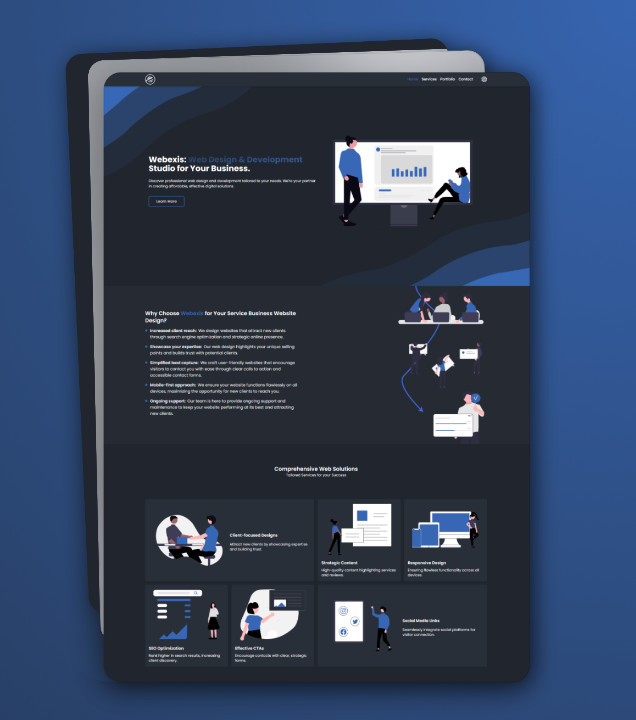
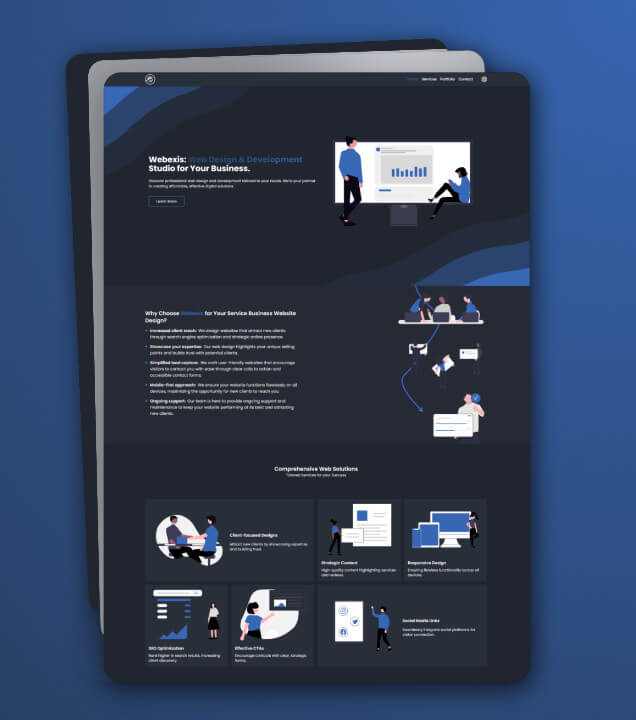
img optimization

diff --git a/components/CaseStudy.jsx b/components/CaseStudy.jsx
@@ -4,6 +4,7 @@ import Image from 'next/image';
 import { useEffect, useState } from 'react';
 import { Review, CaseStudyContent, CaseStudyText, NotFound, Button } from '.';
 import { caseStudiesData } from '@/data';
+import { motion } from 'framer-motion';
 
 const CaseStudy = ({ slug }) => {
     const [currentStudy, setCurrentStudy] = useState([]);
@@ -19,7 +20,7 @@ const CaseStudy = ({ slug }) => {
             ) : (
                 <main className='py-24 bg-lightBg dark:bg-darkBg text-secondary dark:text-primary'>
                     <div className='container mx-auto px-4 md:px-0'>
-                        <div className='w-full h-[250px] md:h-[350px] mt-[-96px]  rounded-lg overflow-hidden relative'>
+                        <div className='w-full h-[250px] md:h-[350px] mt-[-96px] rounded-lg overflow-hidden relative'>
                             <Image
                                 src='/casestudy-bg.jpg'
                                 alt='/blurred image of code'
@@ -28,7 +29,7 @@ const CaseStudy = ({ slug }) => {
                                 width={600}
                             />
                             <div className='absolute top-0 left-0 w-full h-full text-center z-10 flex justify-center items-center backdrop-blur-sm'>
-                                <h1 className='pt-[55px] md:pt-[96px] font-bold text-xl md:text-[30px] text-primary '>
+                                <h1 className=' font-bold text-xl md:text-[30px] text-primary '>
                                     Case Study: {currentStudy.title}
                                 </h1>
                             </div>
@@ -60,7 +61,7 @@ const CaseStudy = ({ slug }) => {
                                 <CaseStudyText list={currentStudy.results.features} />
                             </CaseStudyContent>
                             <div className='flex justify-between flex-col lg:flex-row items-center mt-20'>
-                                <div className='flex-1'>
+                                <div className='flex-1 w-[360px] ml-[-20px] overflow-hidden md:ml-0 md:w-auto'>
                                     <Review
                                         title={currentStudy.clientTestimonial.title}
                                         desc={currentStudy.clientTestimonial.description}
@@ -85,13 +86,31 @@ const CaseStudy = ({ slug }) => {
                                         <p>{currentStudy.aboutWebexis.description}</p>
                                     </div>
                                     <div className='pt-8 pb-3 flex justify-start items-center gap-4'>
-                                        <p className='text-xl font-semibold'>View Project: </p>
+                                        <p className='text-[13px] md:text-lg font-medium md:font-semibold'>
+                                            View Project:{' '}
+                                        </p>
                                         {currentStudy.demo.map(
                                             (link) =>
                                                 link.url && (
-                                                    <Button link={link.url} key={link.url}>
-                                                        {link.title}
-                                                    </Button>
+                                                    <motion.a
+                                                        key={link.url}
+                                                        href={link.url}
+                                                        className={` py-[6px] px-[16px] text-[12px] md:text-base dark:py-[4px] dark:px-[14px] dark:border-2 dark:border-accent rounded-md relative radial-gradient overflow-hidden `}
+                                                        initial={{ '--x': '-100%' }}
+                                                        whileHover={{ '--x': '100%' }}
+                                                        transition={{
+                                                            duration: 0.3,
+                                                            type: 'spring',
+                                                            stiffness: '20',
+                                                            damping: 10,
+                                                            mass: 2,
+                                                        }}
+                                                    >
+                                                        <span className='tracking-wide text-primary h-full w-full block relative linear-gradient z-10'>
+                                                            {link.title}
+                                                        </span>
+                                                        <span className='block absolute inset-0 p-px linear-overlay' />
+                                                    </motion.a>
                                                 )
                                         )}
                                     </div>

diff --git a/components/Footer.jsx b/components/Footer.jsx
@@ -111,7 +111,7 @@ const Footer = () => {
                                 placeholder='Your Email'
                                 value={newsletterInput}
                                 onChange={(e) => setnewsletterInput(e.target.value)}
-                                className='py-[10px] max-h-[100px] w-full px-4 md:w-[215px] lg:w-[210px] xl:w-[255px] bg-lightBg text-secondary rounded-bl rounded-tl focus-visible:outline focus-visible:outline-2 focus-visible:outline-black dark:focus-visible:outline-white focus-visible:box-border dark:border-2 dark:border-accent dark:border-r-[0px]'
+                                className='py-[10px] max-h-[100px] w-[196px] px-4 md:w-[215px] lg:w-[210px] xl:w-[255px] bg-lightBg text-secondary rounded-bl rounded-tl focus-visible:outline focus-visible:outline-2 focus-visible:outline-black dark:focus-visible:outline-white focus-visible:box-border dark:border-2 dark:border-accent dark:border-r-[0px]'
                             />
                             <motion.button
                                 className=' py-[10px] px-[34px] dark:py-2.5 dark:px-8 dark:border-2 dark:border-accent rounded-md rounded-tl-none rounded-bl-none dark:border-l-[0px] relative radial-gradient overflow-hidden'

diff --git a/components/Hero.jsx b/components/Hero.jsx
@@ -11,7 +11,7 @@ const Hero = () => {
         <section
             id='hero'
             style={{ background: 'url("/hero-bg.png")', backgroundSize: 'cover' }}
-            className='relative bg-lightBg dark:bg-darkBg text-secondary dark:text-primary py-10 md:pt-28 md:pb-24  min-h-screen before:absolute before:top-0 before:left-0 before:w-full before:h-full before:content-[""] before:dark:bg-darkBg before:z-[-1] flex items-center justify-center'
+            className='relative bg-lightBg dark:bg-darkBg text-secondary dark:text-primary py-10 md:pt-28 md:pb-24  min-h-[94vh] before:absolute before:top-0 before:left-0 before:w-full before:h-full before:content-[""] before:dark:bg-darkBg before:z-[-1] flex items-center justify-center'
         >
             <motion.div
                 initial={{ opacity: 0, y: 30 }}

diff --git a/components/Navbar.jsx b/components/Navbar.jsx
@@ -37,7 +37,7 @@ const Navbar = () => {
             initial={{ y: '-100%' }}
             animate={{ y: 0 }}
             transition={{ ease: 'easeInOut', duration: 0.4 }}
-            className=' fixed flex text-darkText min-h-16 px-4 top-[-1px] left-0 w-full bg-[#f6f6f6] dark:bg-tertiary text-secondary dark:text-primary shadow-md z-50'
+            className=' sticky flex text-darkText min-h-16 px-4 top-[-1px] left-0 w-full bg-[#f6f6f6]/60 dark:bg-tertiary/60 text-secondary dark:text-primary shadow-md z-50 backdrop-blur-[50px]'
         >
             <div className='container flex justify-between items-center mx-auto'>
                 <div className='log rounded-full dark:border-2 dark:border-white min-w-[45px] flex justify-center'>

diff --git a/components/PageHero.jsx b/components/PageHero.jsx
@@ -34,7 +34,7 @@ const PageHero = ({
 
     return (
         <section
-            className={`bg-lightBg dark:bg-darkBg text-secondary dark:text-primary pt-12 pb-12  mt-12 md:pt-28 md:pb-24 ${bgStyle}`}
+            className={`bg-lightBg dark:bg-darkBg text-secondary dark:text-primary pt-12 pb-12   md:pt-28 md:pb-24 ${bgStyle}`}
         >
             <div className='container mx-auto flex flex-col lg:flex-row items-center justify-between px-4 lg:px-0'>
                 <div className='flex-1 flex justify-start md:mb-12 lg:my-[-80px]'>

diff --git a/app/layout.js b/app/layout.js
@@ -55,7 +55,7 @@ export default function RootLayout({ children }) {
                         gtag('config', 'G-3GCZVVD910');`}
                 </Script>
             </head>
-            <body className='font-poppins'>
+            <body className='font-poppins bg-lightBg dark:bg-darkBg'>
                 <Navbar />
                 <main>{children}</main>
                 <Footer />
